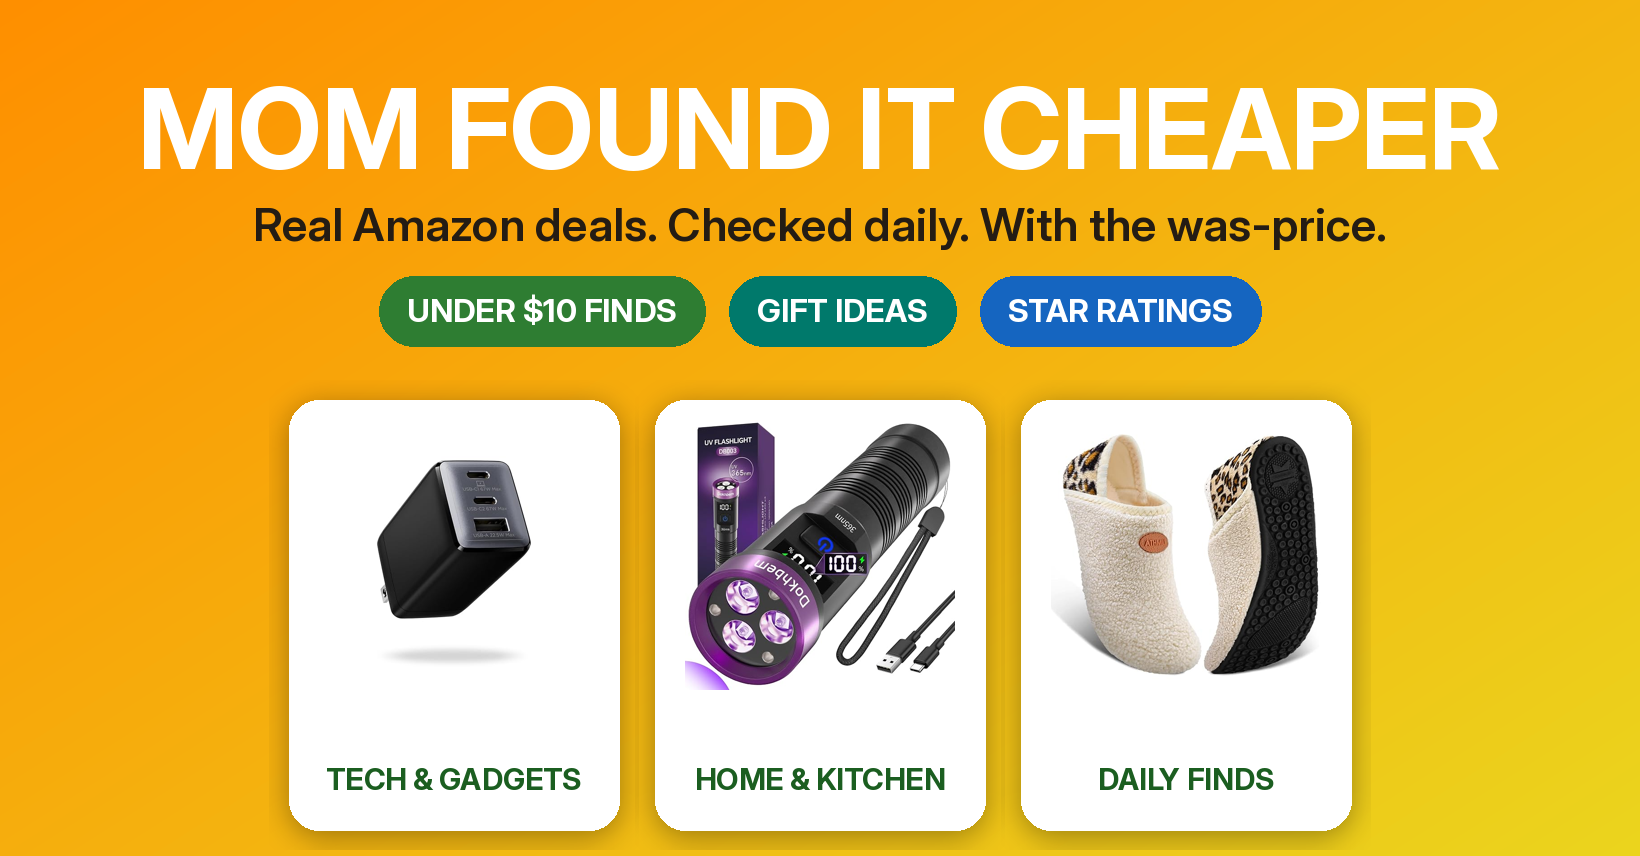
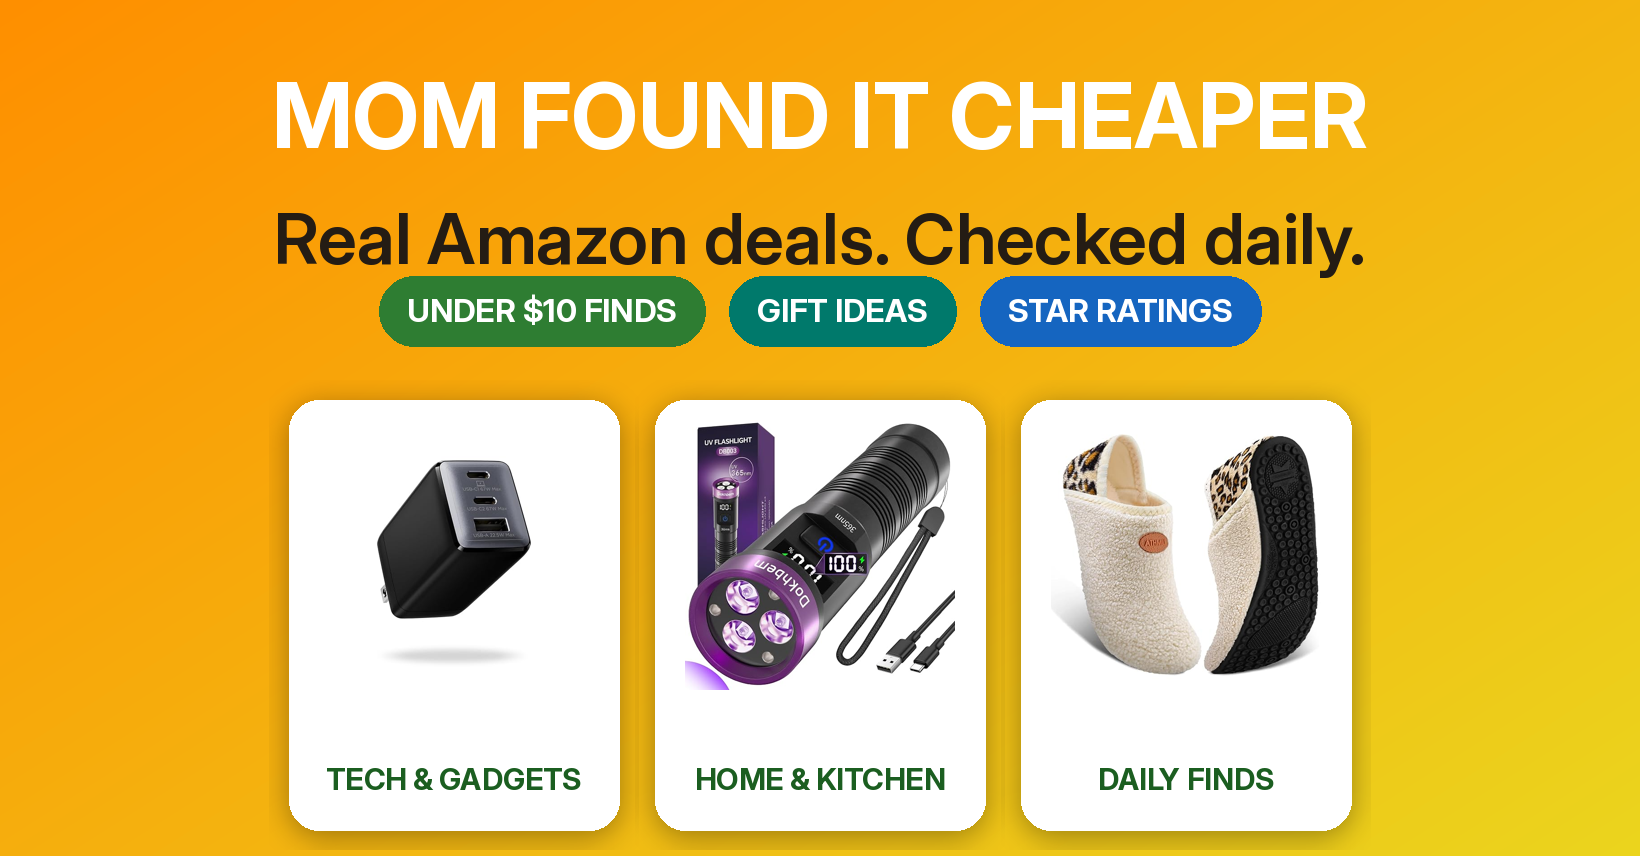
Fix cover title cropping, post note placement, title cleanup, skip words
Claude-Session: https://claude.ai/code/session_013VSLL9D9UfzTwCfefZ99QJ

Changed region(s): [[0.0622, 0.0911, 0.9329, 0.2126], [0.1555, 0.243, 0.8396, 0.3341]]

diff --git a/make_posts.py b/make_posts.py
@@ -163,8 +163,14 @@ def seasonal_groups(deals, made, top=2):
 COND_RE = re.compile(r"\s*\bw/\s*(?:S&S|Prime|Subscribe\s*&\s*Save|Coupon|Clip(?:pable)? Coupon)\b.*$", re.I)
 
 
+_STORE_TAIL = re.compile(r"\s+(?:at|@|from|on)\s+(?:Target|Walmart|Best Buy|Lowe'?s|Home Depot|Costco|Kohl'?s|Macy'?s|Amazon)\b.*$", re.I)
+_DANGLE = {"and", "with", "for", "the", "a", "an", "of", "to", "in", "on", "or", "&", "-", "+", "x", "w/", "(2nd", "(3rd"}
+
+
 def tidy(title):
     """Drop deal-site shorthand (w/ S&S, w/ Prime) that means nothing to shoppers."""
+    title = _STORE_TAIL.sub("", title).replace("\u00ae", "").replace("\u2122", "")
+    title = re.sub(r"\s*\(20\d\d\)\s*:?", " ", title)
     t = AT_RE.sub("", COND_RE.sub("", title))
     for _ in range(2):
         t = JUNK_RE.sub("", t)
@@ -176,7 +182,10 @@ def tidy(title):
         while words and len(words[-1].strip(",.")) <= 2:
             words.pop()
         t = " ".join(words)
-    return t
+    ws = t.split()
+    while ws and (ws[-1].lower().strip(",.:;") in _DANGLE or ws[-1].startswith("(") and not ws[-1].endswith(")")):
+        ws.pop()                                    # never end on 'and', 'with', '(2nd' ...
+    return " ".join(ws).strip(" -,:")
 
 
 def proof(deal):
@@ -446,7 +455,8 @@ def make_image_single(path, deal, cat="Everything else"):
         nd.text((28, yy), ln, font=nf, fill=(60, 50, 20))
         yy += 56
     note = note.rotate(5, expand=True, resample=Image.BICUBIC)
-    img.paste(note, (PW - note.width - 30, 200 if narrow else 372), note)
+    note = note.resize((int(note.width * 0.74), int(note.height * 0.74)), Image.LANCZOS)
+    img.paste(note, (PW - note.width - 50, 900), note)          # right of the rating row, never on the product photo
     cta_pill(img, 1088, 74)
     d = ImageDraw.Draw(img)
     centered(d, 1182, "Prices can change, check before you buy.", sans(28, "Medium"), fg(img), max_w=PW - 80)

diff --git a/launch/make_cover2.py b/launch/make_cover2.py
@@ -50,11 +50,21 @@ for i, c in enumerate(cards):
 # headline
 def center(y, text, font, fill):
     d.text(((W - d.textlength(text, font=font)) / 2, y), text, font=font, fill=fill)
-center(60, "MOM FOUND IT CHEAPER", sans(112, "Bold"), (255, 255, 255))
-center(196, "Real Amazon deals. Checked daily. With the was-price.", sans(46, "SemiBold"), INK)
+def fit(text, wt, maxw):
+    for sz in range(112, 40, -2):
+        f = sans(sz, wt)
+        if d.textlength(text, font=f) <= maxw:
+            return f
+    return f
+SAFE = int(W * 0.68)          # mobile crops the sides of group covers
+center(60, "MOM FOUND IT CHEAPER", fit("MOM FOUND IT CHEAPER", "Bold", SAFE), (255, 255, 255))
+center(196, "Real Amazon deals. Checked daily.", fit("Real Amazon deals. Checked daily.", "SemiBold", SAFE), INK)
 pills = [("UNDER $10 FINDS", (46, 125, 50)), ("GIFT IDEAS", (0, 121, 107)), ("STAR RATINGS", (21, 101, 192))]
 pf2 = sans(32, "Bold")
 total = sum(d.textlength(t, font=pf2) + 56 for t, _ in pills) + 24 * (len(pills) - 1)
+if total > SAFE:
+    pf2 = sans(26, "Bold")
+    total = sum(d.textlength(t, font=pf2) + 44 for t, _ in pills) + 18 * (len(pills) - 1)
 x = (W - total) / 2
 for t, col in pills:
     w = d.textlength(t, font=pf2) + 56

diff --git a/make_videos.py b/make_videos.py
@@ -46,7 +46,8 @@ VOICE_RATE = os.environ.get("VOICE_RATE", "+6%")
 VOICE_PITCH = os.environ.get("VOICE_PITCH", "+2Hz")
 VIDEOS_PER_RUN = int(os.environ.get("VIDEOS_PER_RUN") or "20")   # Reels per day (private repo: ~2,000 free Actions min/month)
 MAX_PRICE = float(os.environ.get("VIDEO_MAX_PRICE") or "0")   # 0 = no cap (all categories)
-SKIP_WORDS = ("ebook", "ps5", "xbox", "steam", "pcdd", "gog", "resale", "kindle", "watch (")
+SKIP_WORDS = ("ebook", "ps5", "xbox", "steam", "pcdd", "gog", "resale", "kindle", "watch (", "miter saw", "pex", "expander", "ryzen", "processor", "graphics card",
+              "nut setter", "nut driver", "tap and die", "radial arm", "table saw", "cpu", "motherboard", "wrench set", "torque")
 DEALS_FILE = Path("data/deals.json")
 MADE_FILE = Path("data/videos_made.json")
 OUT = Path("videos")
